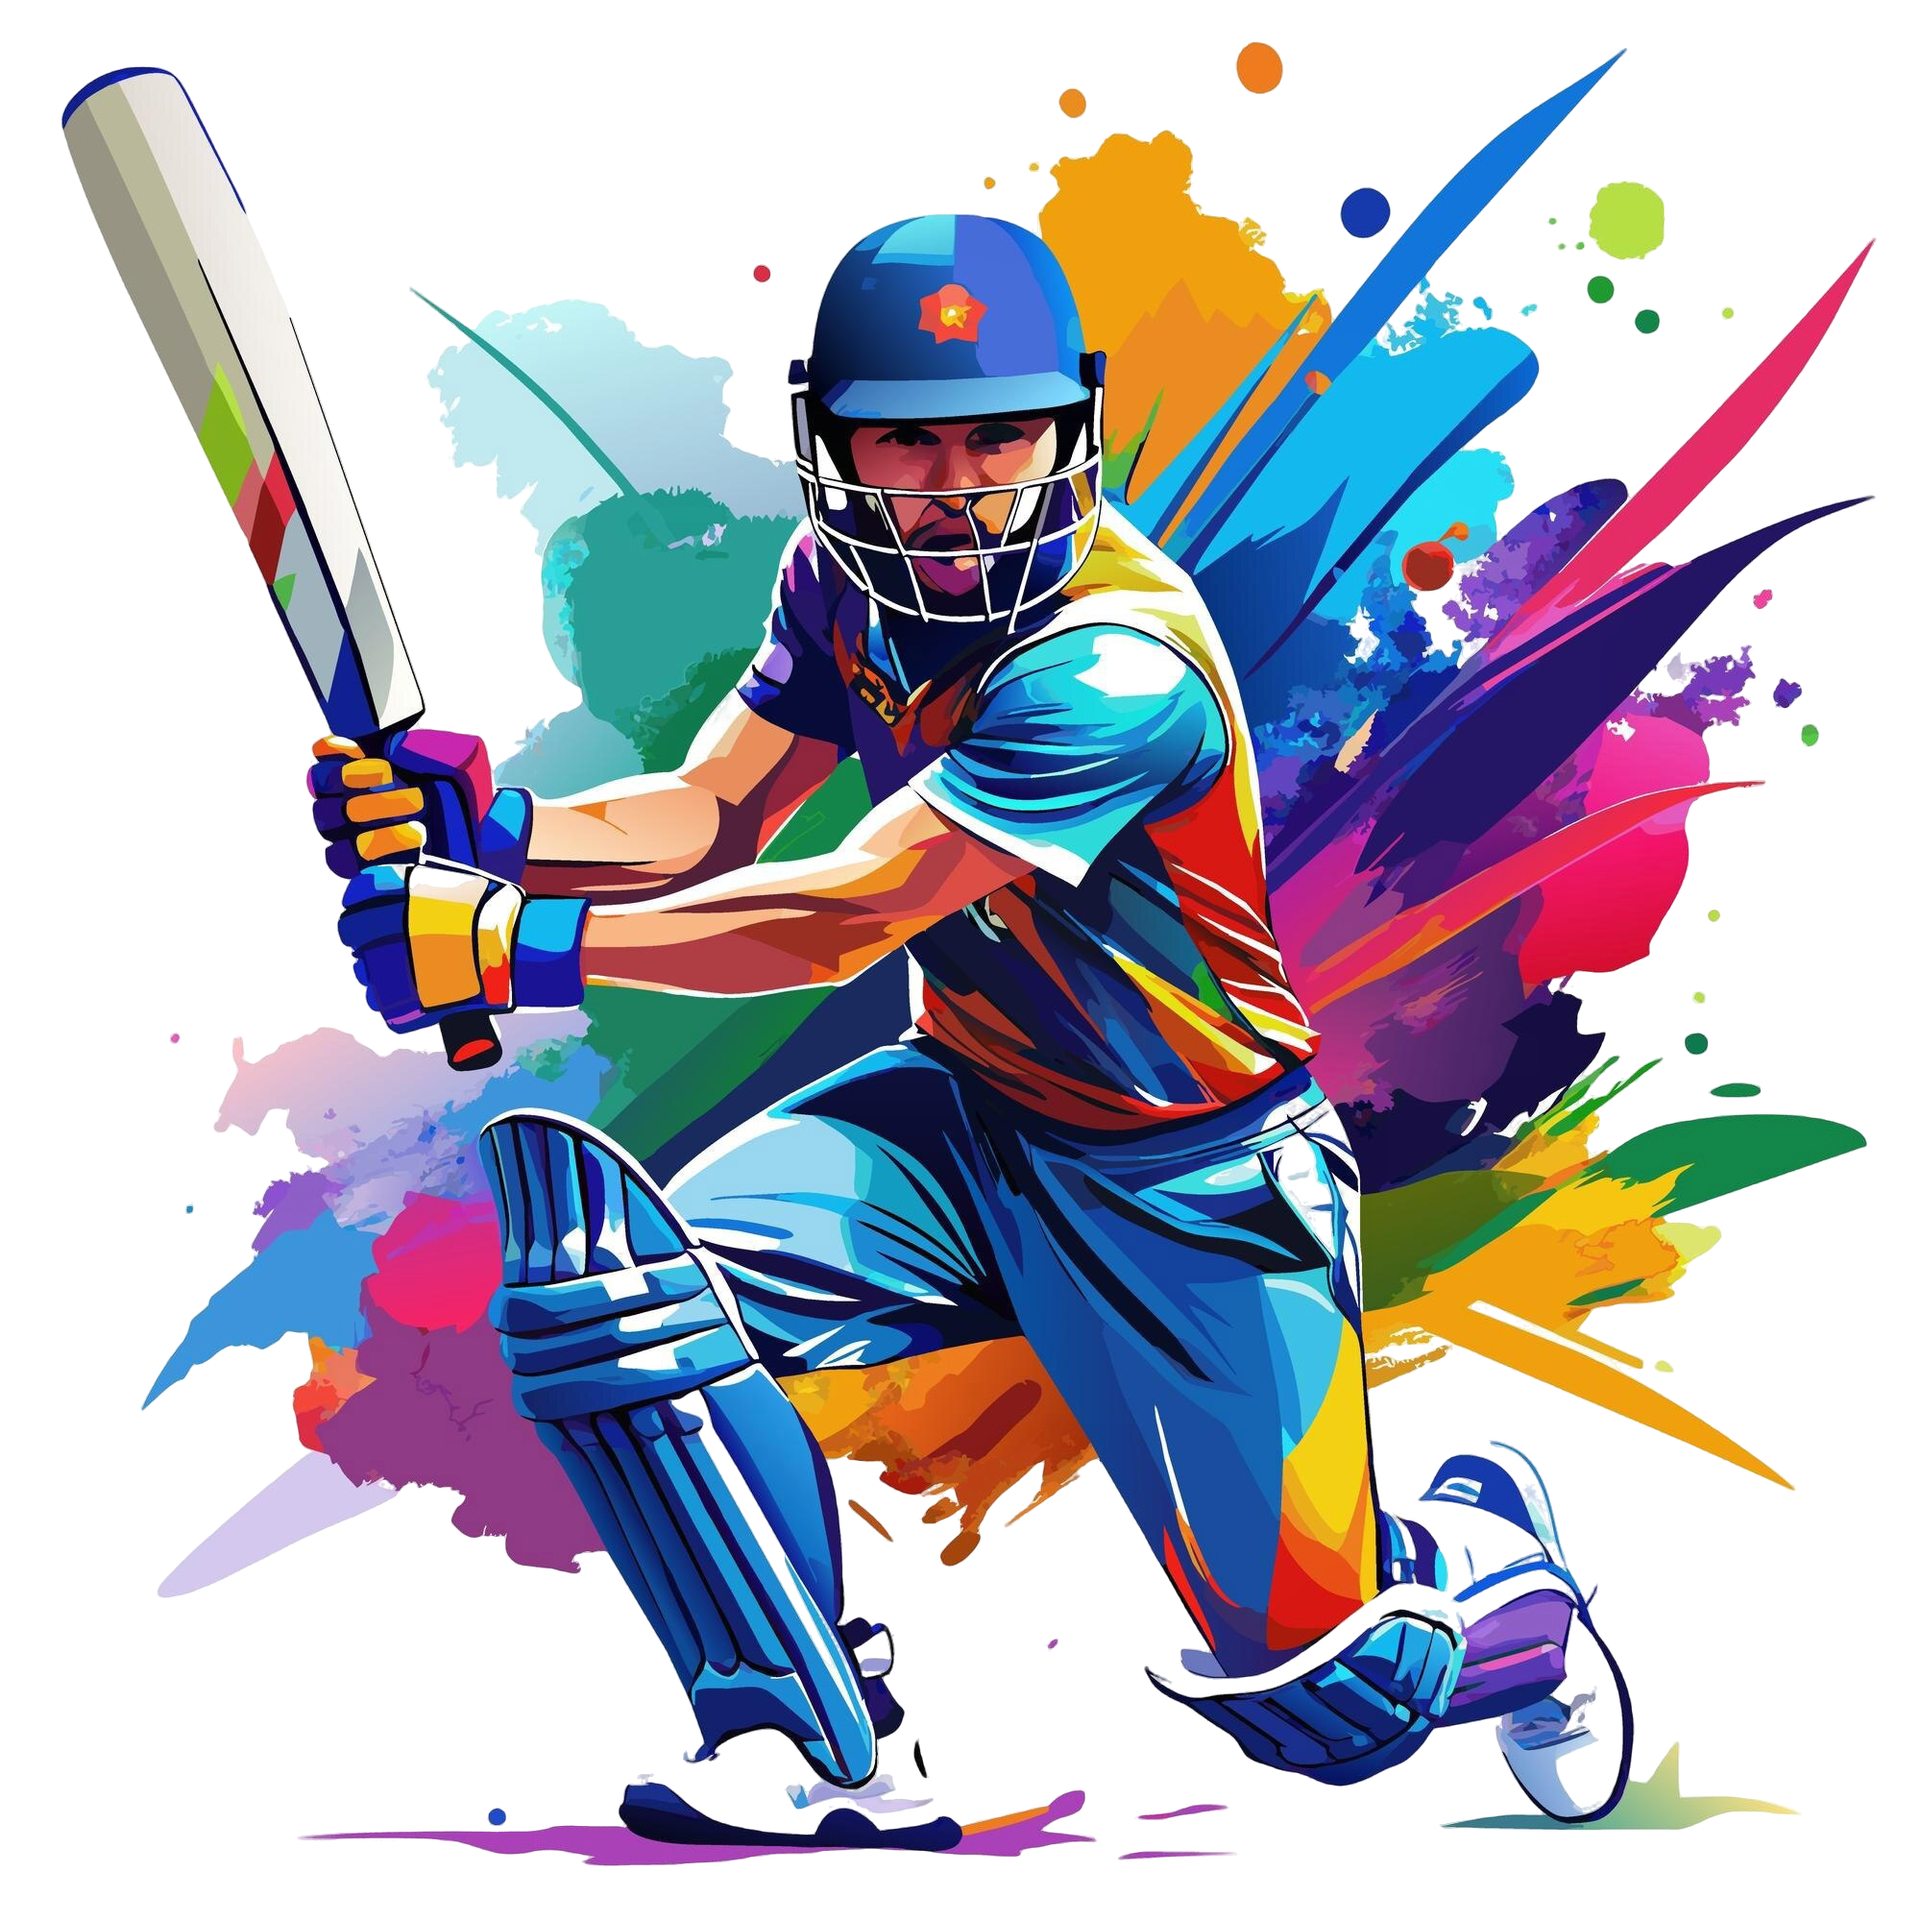
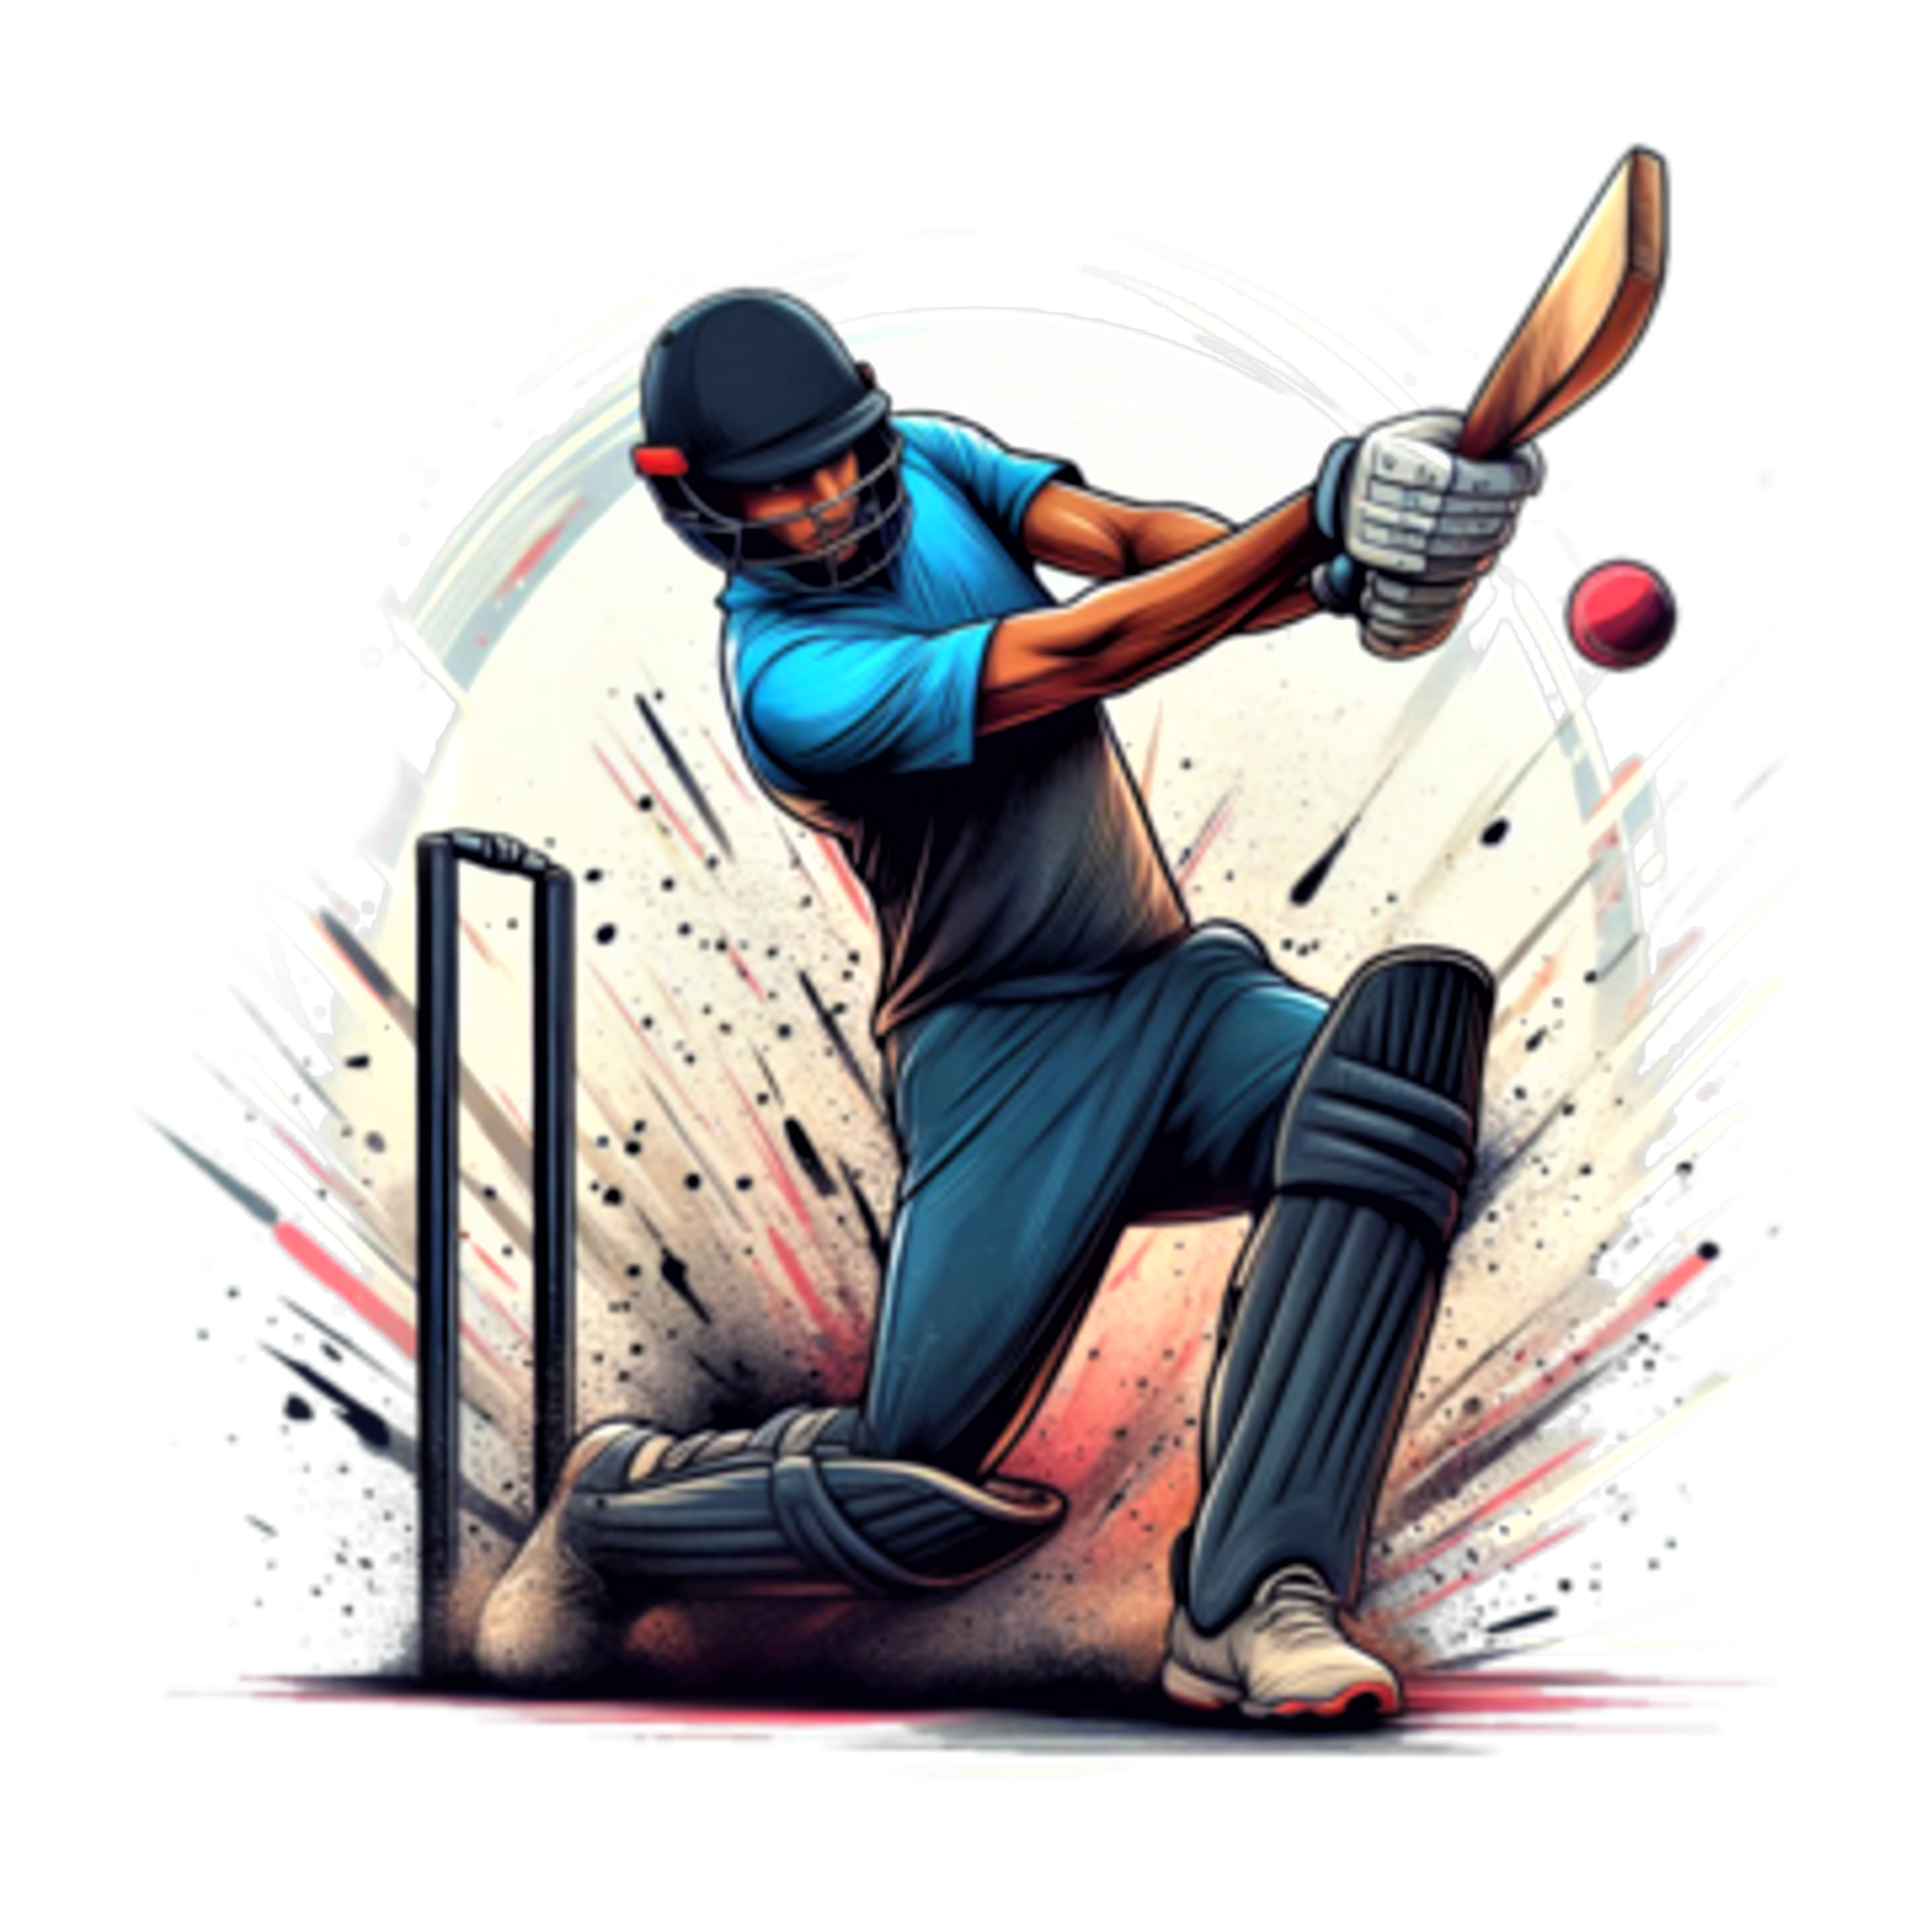
changer photo and btn colours

diff --git a/core/static/assets/css/style.css b/core/static/assets/css/style.css
@@ -237,7 +237,7 @@ textarea:focus {
     display: inline-block;
     padding: 10px 20px;
     border: none;
-    background-image: linear-gradient(to right, red,blue);
+    background-color: rgb(22, 73, 168);
     color: #fff;
     font-size: 16px;
     text-transform: uppercase;
@@ -250,7 +250,7 @@ textarea:focus {
     cursor: pointer;
 }
 
-.fancy-button:before {
+/*.fancy-button:before {
     content: "";
     position: absolute;
     top: 0;
@@ -260,14 +260,14 @@ textarea:focus {
     background-color: rgba(255, 255, 255, 0.2);
     transform: skewX(-30deg);
     transition: left 0.3s ease-in-out;
-}
+}*/
 
 .fancy-button:hover {
     color: #fff;
 }
 
 .fancy-button:hover:before {
-    left: 100%;
+   color: #0a0957;
 }
 
 .fixed {
@@ -486,7 +486,7 @@ textarea:focus {
 
 .main-header .navbar .dropdown .dropdown-menu .dropdown-item:hover {
     color: #fff;
-     background: linear-gradient(270deg, #833ab4, #fd1d1d, #fcb045);
+     background: gray;
 }
 .main-header .navbar .dropdown:hover > ul.dropdown-menu {
     display: block !important;
@@ -514,7 +514,7 @@ textarea:focus {
 }
 
 .header-btn1{
-    background: linear-gradient(270deg, #833ab4, #fd1d1d, #fcb045);
+    background: rgb(248, 82, 22);
       font-size: 15px;
     color: #fff;
     padding:11px 20px;
@@ -526,7 +526,7 @@ textarea:focus {
     text-transform: uppercase;
 }
 .header-btn1:hover , .header-btn1:focus{
-     background: linear-gradient(270deg, #833ab4, #fd1d1d, #fcb045);
+     background: rgb(218, 71, 18);
     color: #fff;
 }
 
@@ -1308,7 +1308,7 @@ textarea:focus {
     line-height: 40px;
     text-align: center;
     display: inline-block;
-    background-image: linear-gradient(to right, #833ab4, #fd1d1d, #fcb045);
+    background: rgb(22, 73, 168);
     transition: all 300ms ease;
     -webkit-transition: all 300ms ease;
     -ms-transition: all 300ms ease;
@@ -1824,7 +1824,7 @@ textarea:focus {
     font-size: 14px;
     border: none;
     outline: none;
-    background: linear-gradient(270deg, #833ab4, #fd1d1d, #fcb045)  ;
+    background: rgb(22, 73, 168)  ;
     color: #fff;
     cursor: pointer;
     width: 50px;
@@ -1848,7 +1848,7 @@ textarea:focus {
 }
 
 #myBtn:hover {
-    background-image: linear-gradient(to right, #833ab4, #fd1d1d, #fcb045);
+    background: rgb(6, 38, 94);
 }
 
 @media (min-width: 2000px) {

diff --git a/templates/auth/login.html b/templates/auth/login.html
@@ -53,7 +53,8 @@
             letter-spacing: 1.3px;
             font-family: Impact, Haettenschweiler, 'Arial Narrow Bold', sans-serif;
             text-align: center;
-            margin-bottom: 20px;
+            margin-bottom: 40px;
+            margin-top: -30px;
             padding-left: 8px;
         }
     
@@ -120,12 +121,9 @@
     
         /* Image Section */
         .register-form .imge {
-            background: rgb(102, 101, 101);
             display: flex;
             justify-content: center;
-            border-radius: 10px;
             margin-bottom: 30px;
-            padding: 10px;
         }
     
         /* Error List Styling */
@@ -167,11 +165,10 @@
 <body class="form">
     <div class="container">
         <form class="register-form" method="post">
-            <h2 >Login</h2>
-
             <div class="imge">
                 <img src="{% static 'assets/images/logo.png' %}" style="width: 90px; height: 70px;">    
             </div>
+            <h2 >Login</h2>
 
             {% csrf_token %} {{form.as_p}}
             <br>

diff --git a/templates/auth/register.html b/templates/auth/register.html
@@ -53,7 +53,8 @@
             letter-spacing: 1.3px;
             font-family: Impact, Haettenschweiler, 'Arial Narrow Bold', sans-serif;
             text-align: center;
-            margin-bottom: 20px;
+            margin-bottom: 40px;
+            margin-top: -30px;
             padding-left: 8px;
         }
     
@@ -120,12 +121,9 @@
     
         /* Image Section */
         .register-form .imge {
-            background: rgb(102, 101, 101);;
             display: flex;
             justify-content: center;
-            border-radius: 10px;
             margin-bottom: 30px;
-            padding: 10px;
         }
     
         /* Error List Styling */
@@ -166,11 +164,11 @@
 <body class="form">
     <div class="container">
         <form class="register-form" method="post">
-            <h2 >Register</h2>
-
             <div class="imge">
                 <img src="{% static 'assets/images/logo.png' %}" style="width: 90px; height: 70px;">    
             </div>
+            <h2 >Register</h2>
+
             {% csrf_token %} {{form.as_p}}
 
 
